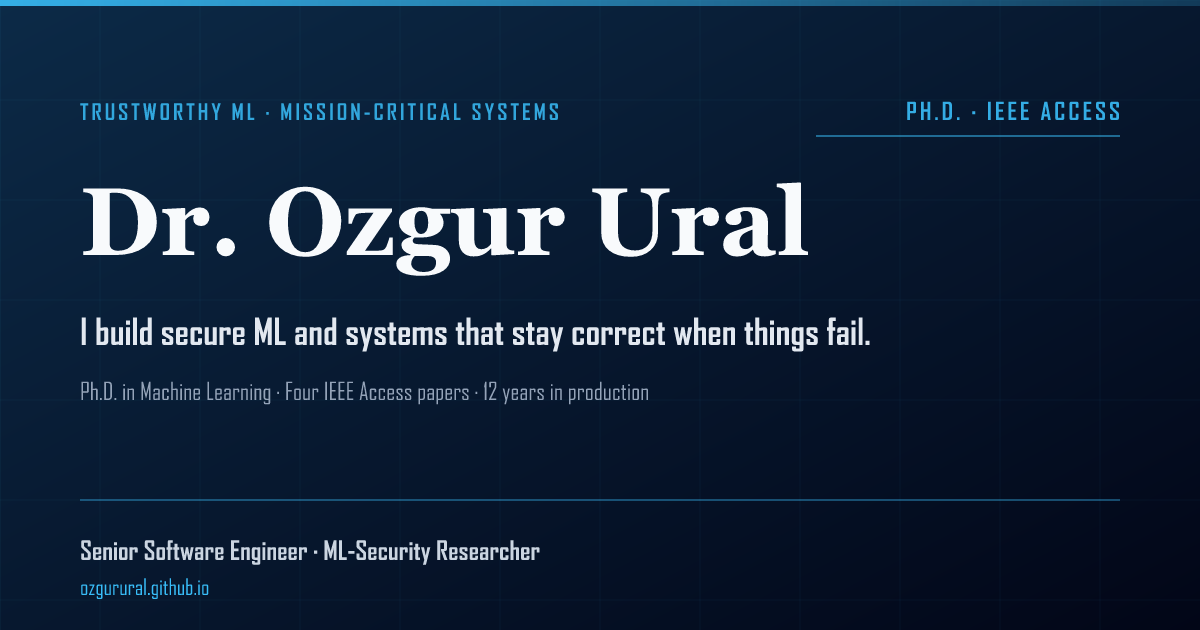
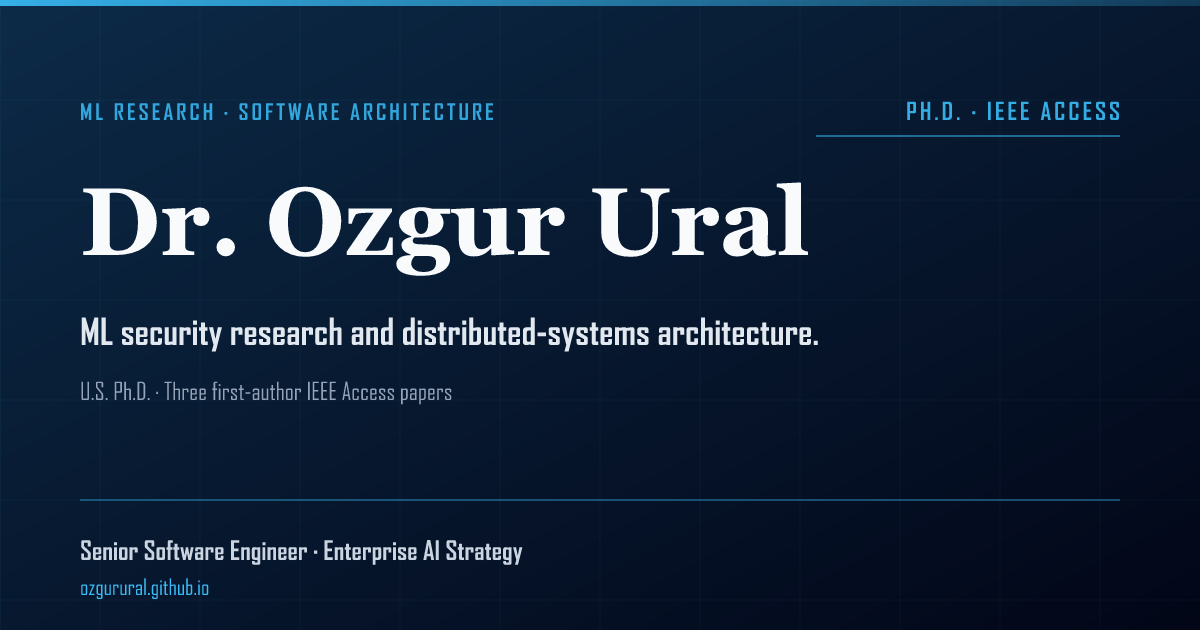
site: balance ML research and software architecture
Lead with published research and architecture evidence, remove duplicate homepage actions and headline metrics, and distinguish the current role from target roles. Align metadata and the sharing image, preserve the CV, and clarify reliability assumptions.

diff --git a/_includes/seo.html b/_includes/seo.html
@@ -27,7 +27,7 @@
 {% endif %}
 
 {% if page.url == "/" %}
-<title>{{ page.seo_title | default: "Dr. Ozgur Ural | Machine Learning Research Scientist, Ph.D." }}{% if paginator %}{% unless paginator.page == 1 %} {{ site.title_separator }} {{ site.data.ui-text[site.locale].page | default: "Page" }} {{ paginator.page }}{% endunless %}{% endif %}</title>
+<title>{{ page.seo_title | default: "Dr. Ozgur Ural | ML Research & Software Architecture" }}{% if paginator %}{% unless paginator.page == 1 %} {{ site.title_separator }} {{ site.data.ui-text[site.locale].page | default: "Page" }} {{ paginator.page }}{% endunless %}{% endif %}</title>
 {% else %}
 <title>{{ seo_title | default: "Dr. Ozgur Ural" }}{% if paginator %}{% unless paginator.page == 1 %} {{ site.title_separator }} {{ site.data.ui-text[site.locale].page | default: "Page" }} {{ paginator.page }}{% endunless %}{% endif %}</title>
 {% endif %}

diff --git a/scripts/build-site-og.js b/scripts/build-site-og.js
@@ -16,11 +16,11 @@ const BG = "#0c2a47";      // deep site blue
 const ACCENT = "#38bdf8";  // brand sky, matches the flagship lab card + particles
 
 const CARD = {
-  eyebrow: "TRUSTWORTHY ML · MISSION-CRITICAL SYSTEMS",
+  eyebrow: "ML RESEARCH · SOFTWARE ARCHITECTURE",
   title: "Dr. Ozgur Ural",
-  sub: "I build secure ML and systems that stay correct when things fail.",
-  tagline: "Ph.D. in Machine Learning · Four IEEE Access papers · 12 years in production",
-  role: "Senior Software Engineer · ML-Security Researcher",
+  sub: "ML security research and distributed-systems architecture.",
+  tagline: "U.S. Ph.D. · Three first-author IEEE Access papers",
+  role: "Senior Software Engineer · Enterprise AI Strategy",
   badge: "PH.D. · IEEE ACCESS",
 };
 

diff --git a/_pages/about.md b/_pages/about.md
@@ -1,8 +1,8 @@
 ---
 permalink: /
-title: "Trustworthy AI for Mission-Critical Systems"
+title: "ML Research & Software Architecture"
 hide_title: true
-excerpt: "Trustworthy AI for mission-critical systems: twelve years shipping UAV, security and flight-simulation software, a U.S. Ph.D., three IEEE Access papers."
+excerpt: "Dr. Ozgur Ural: Senior Software Engineer working on ML security research, software architecture and enterprise AI. U.S. Ph.D. and three first-author IEEE Access papers."
 author_profile: true
 redirect_from:
   - /about/
@@ -16,7 +16,7 @@ redirect_from:
   "name": "Dr. Ozgur Ural",
   "honorificPrefix": "Dr.",
   "jobTitle": {{ site.data.person.job_title | jsonify }},
-  "description": "Machine learning research scientist and senior software engineer working on trustworthy AI for mission-critical systems: verifiable training and model provenance, robustness, and AI inside real-time loops. Twelve years of UAV, security and flight-simulation software; U.S. Ph.D.; three IEEE Access papers.",
+  "description": "Senior Software Engineer at Avion, leading enterprise AI strategy and researching training verification, model ownership and adversarial robustness. Ph.D. in Electrical Engineering and Computer Science, Embry-Riddle Aeronautical University, USA; three first-author IEEE Access papers.",
   "url": "https://ozgurural.github.io",
   "image": "https://ozgurural.github.io/images/ozgururalpp.webp",
   "email": "drozgurural@gmail.com",
@@ -42,55 +42,68 @@ redirect_from:
      record lives on /publications/. -->
 
 <section class="ep-hero">
-  <span class="ep-eyebrow">Trustworthy AI · Real-time &amp; safety-critical systems · Applied ML research</span>
-  <h1 class="ep-hero__title"><span class="accent">Trustworthy AI</span><br>for mission-critical systems.</h1>
+  <span class="ep-eyebrow">ML security · Model provenance · Distributed systems</span>
+  <h1 class="ep-hero__title"><span class="accent">Machine learning research.</span><br>Software architecture.</h1>
   <p class="ep-hero__lede">
-    I'm <strong>Dr. Ozgur Ural</strong>, a machine learning research scientist and senior software engineer at <a href="https://www.aviongroup.aero/">Avion</a>, where I build real-time software for Level D flight simulators and lead the company's AI strategy. My research asks what it takes to trust a model: evidence of how it was trained and who owns it, robustness against attackers, and predictable timing when it runs inside a real-time loop.
-  </p>
-  <p class="ep-hero__status">
-    <span class="ep-status-dot" aria-hidden="true"></span>
-    <span>Leiden, Netherlands. Interested in research scientist roles in ML and AI, and open to research collaboration, advisory and speaking.</span>
+    I'm <strong>Dr. Ozgur Ural</strong>. I research how to verify a model's training and ownership, and design software architectures for enterprise AI. My background combines a U.S. Ph.D., three first-author IEEE Access papers and twelve years of software engineering. At Avion, I lead the enterprise AI strategy and reference architecture.
   </p>
   <div class="ep-hero__cta">
-    <a href="#research-agenda"><i class="fas fa-book-open"></i> Research agenda</a>
-    <a href="/Ozgur_Ural_PhD_Resume.pdf"><i class="fas fa-file-lines"></i> Resume</a>
-    <a href="mailto:drozgurural@gmail.com"><i class="fas fa-envelope"></i> Get in touch</a>
+    <a href="/publications/"><i class="fas fa-book-open" aria-hidden="true"></i> Read my research</a>
+    <a href="/projects/">Architecture &amp; projects</a>
   </div>
 </section>
 
-<ul class="ep-stats ep-stats--four">
-  <li><span class="num">12+</span><span class="label">Years shipping mission-critical software</span></li>
-  <li><span class="num">Level&nbsp;D</span><span class="label">Flight simulators, the highest certification grade</span></li>
-  <li><span class="num">~50&nbsp;GB/s</span><span class="label">Simulator telemetry pipeline, sustained</span></li>
-  <li><span class="num">Ph.D.</span><span class="label">U.S. doctorate&nbsp;· 3 IEEE Access papers</span></li>
+## Selected research &amp; architecture
+
+<ul class="ep-cards ep-cards--two">
+  <li>
+    <div class="meta">2025 · IEEE Access</div>
+    <h3 class="title"><a href="/publication/2025-secureproofoflearning">SecurePoL: Watermarking + Proof-of-Learning</a></h3>
+    <p class="desc">Defends proof-of-learning against spoofing by making verification depend on a feature-based model watermark as well.</p>
+  </li>
+  <li>
+    <div class="meta">2026 · Avion · Architecture</div>
+    <h3 class="title"><a href="/enterprise-ai-architecture.html">Enterprise AI strategy and reference architecture</a></h3>
+    <p class="desc">The adoption roadmap and reference architecture I wrote for Avion, spanning on-premises inference, governed cloud APIs and edge workloads. The design distinguishes prototypes from proposed capabilities.</p>
+  </li>
+  <li>
+    <div class="meta">2024 · IEEE Access</div>
+    <h3 class="title"><a href="/publication/2024-ieee-access-watermarking">Model watermarking for Proof-of-Learning</a></h3>
+    <p class="desc">Studies how feature-based model watermarking can strengthen proof-of-learning against spoofing attacks.</p>
+  </li>
+  <li>
+    <div class="meta">2023 · IEEE Access · Survey</div>
+    <h3 class="title"><a href="/publication/2023-ieee-access-survey">Survey on Blockchain-Enhanced Machine Learning</a></h3>
+    <p class="desc">Reviews the design space where distributed ledgers meet learning systems.</p>
+  </li>
 </ul>
 
 ## Research agenda {#research-agenda}
 
-<p class="ep-pillars__note">Three questions, each from a system that has to work the first time. For each: the problem, what I have built or shown, and where it stands.</p>
+<p class="ep-pillars__note">Training evidence, adversarial robustness and the conditions for using learned systems in practice. Published work and open directions are identified below.</p>
 
 <ol class="ep-agenda">
   <li>
     <span class="ep-agenda__status">Published · IEEE Access 2023–2025 · Ph.D. 2025</span>
     <h3>Proving how a model was trained, and who owns it</h3>
     <p>Models are bought, fine-tuned and shipped by people who did not train them. Proof-of-learning lets a trainer show the training was really done; a watermark lets an owner show a model is theirs. Each can be forged on its own.</p>
-    <p class="ep-agenda__done">My Ph.D. and three first-author IEEE Access papers combine the two, so verification succeeds only when the training record and the watermark agree, and test the result against spoofing and adversarial attacks. <a href="/publications/">Publications</a></p>
+    <p class="ep-agenda__done">My dissertation and SecurePoL study combine the two, so verification succeeds only when the training record and the watermark agree, and evaluate the result against specified spoofing attacks. <a href="/publications/">Publications</a></p>
   </li>
   <li>
-    <span class="ep-agenda__status">Open research direction, not yet published</span>
-    <h3>AI inside real-time, safety-critical loops</h3>
-    <p>A flight simulator answers the pilot within 150 milliseconds, sixty times a second, for hours, and is certified on it. Learned models can make it more realistic, but their timing depends on the input and on whatever shares the processor.</p>
-    <p class="ep-agenda__done">I bring twelve years of hard-real-time and simulator software, from UAV mission control at STM to Level D simulators at Avion, and argue that a model earns a place in the loop only if every frame stays on time. <a href="/lab/level-d-60hz/">The argument, as a film</a></p>
+    <span class="ep-agenda__status">Published · IEEE Access 2024–2025</span>
+    <h3>Testing security claims against an adversary</h3>
+    <p>A verifier can accept a plausible training record that was never honestly produced. A watermark can also be attacked. The useful question is which attacks a defence withstands, under which assumptions and at what cost.</p>
+    <p class="ep-agenda__done">My research studies spoofing attacks on proof-of-learning and the use of model watermarking to strengthen verification. <a href="/publication/2024-ieee-access-watermarking">Watermarking study</a> · <a href="/publication/2025-secureproofoflearning">SecurePoL</a></p>
   </li>
   <li>
-    <span class="ep-agenda__status">In industry · Avion, 2026</span>
-    <h3>Generative AI an engineering company can govern</h3>
-    <p>In an engineering company the useful knowledge sits in its own documents and processes, and an AI system has to respect where that data is allowed to go.</p>
-    <p class="ep-agenda__done">I wrote Avion's AI adoption roadmap and a reference architecture spanning on-premises inference, governed cloud APIs and edge workloads, and built engineering-knowledge retrieval prototypes. <a href="/projects/">Projects</a> separates what is built from what is proposed.</p>
+    <span class="ep-agenda__status">Open research direction of the author, not yet published</span>
+    <h3>From model quality to system-level evidence</h3>
+    <p>Accuracy alone does not establish that a learned component is useful inside a larger system. Timing, the freshness of its inputs and the behaviour when it is unavailable also need to be evaluated.</p>
+    <p class="ep-agenda__done">I am exploring these questions through an executable architecture experiment with asynchronous inference, expiry checks and fallback. <a href="/lab/determinism/">AI Meets the Deadline</a> states the model's assumptions and separates synthetic traces from measured results.</p>
   </li>
 </ol>
 
-## What I bring to an industry team
+## Technical leadership &amp; research practice
 
 <ul class="ep-pillars">
   <li class="ep-pillar">
@@ -99,9 +112,9 @@ redirect_from:
     <p>I lead Avion's enterprise AI strategy: the adoption roadmap and the reference architecture behind it. Before that I built mission-critical UAV software at STM and led the engineering team that shipped Havelsan's data-leakage-prevention product.</p>
   </li>
   <li class="ep-pillar">
-    <span class="ep-pillar__tag">Real-time &amp; Fault-Tolerant Systems</span>
-    <h3>Correct on time, and when parts fail</h3>
-    <p>Real-time simulator software and the services around it (C, C++, Scala, TypeScript, gRPC), including a telemetry pipeline that sustains about 50 GB/s through batching and bounded-queue backpressure.</p>
+    <span class="ep-pillar__tag">Research Engineering</span>
+    <h3>From a question to an experiment</h3>
+    <p>Hands-on research in proof-of-learning and model watermarking, backed by twelve years building software in security, distributed systems and simulation. I use that engineering experience to turn research questions into implementations that can be inspected and tested.</p>
   </li>
   <li class="ep-pillar">
     <span class="ep-pillar__tag">Security, then ML Security</span>
@@ -115,31 +128,6 @@ redirect_from:
   </li>
 </ul>
 
-## Selected Work
-
-<ul class="ep-cards ep-cards--two">
-  <li>
-    <div class="meta">2026 · Avion · Industry</div>
-    <h3 class="title"><a href="/enterprise-ai-architecture.html">Enterprise AI strategy and reference architecture</a></h3>
-    <p class="desc">The adoption roadmap and architecture I wrote for Avion: on-premises inference, governed cloud APIs and edge workloads.</p>
-  </li>
-  <li>
-    <div class="meta">2025 · IEEE Access</div>
-    <h3 class="title"><a href="https://ieeexplore.ieee.org/document/11293969">SecurePoL: Watermarking + Proof-of-Learning</a></h3>
-    <p class="desc">Defends proof-of-learning against spoofing by making verification depend on a feature-based model watermark as well.</p>
-  </li>
-  <li>
-    <div class="meta">2026 · Research film</div>
-    <h3 class="title"><a href="/lab/level-d-60hz/">Inside a Level D flight simulator</a></h3>
-    <p class="desc">How a simulator earns a pilot's trust, and what AI would have to keep to run inside one. Every rule is cited from the regulation text.</p>
-  </li>
-  <li>
-    <div class="meta">2023 · IEEE Access · Survey</div>
-    <h3 class="title"><a href="https://ieeexplore.ieee.org/abstract/document/10366252">Survey on Blockchain-Enhanced Machine Learning</a></h3>
-    <p class="desc">My most-cited paper: the design space where distributed ledgers meet learning systems.</p>
-  </li>
-</ul>
-
 ## Experience
 
 <ol class="ep-timeline">
@@ -149,7 +137,7 @@ redirect_from:
   </li>
   <li>
     <span class="when">2021–2025</span>
-    <span class="what"><strong>Ph.D. in Electrical Engineering &amp; Computer Science, Embry-Riddle Aeronautical University</strong> (Graduate Research Assistant). Dissertation: <em>Enhancing Proof-of-Learning Security Against Spoofing Attacks Using Model Watermarking</em>, guided by Dr. Kenji Yoshigoe (Committee Chair) and IEEE Fellow <a href="https://informationsystems.umbc.edu/home/faculty-and-staff/new-faculty-spotlights/houbing-herbert-song/">Dr. Houbing Song</a>. Three IEEE Access papers, and SecurePoL (December 2025) with Dr. Yoshigoe after graduation. <a href="https://commons.erau.edu/edt/905/">Dissertation</a> · <a href="https://www.parchment.com/u/award/f48bdb435249f1ac871ed66e818ef1ae">Verify diploma</a>.</span>
+    <span class="what"><strong>Ph.D. in Electrical Engineering &amp; Computer Science, Embry-Riddle Aeronautical University</strong> (Graduate Research Assistant). Dissertation: <em>Enhancing Proof-of-Learning Security Against Spoofing Attacks Using Model Watermarking</em>, guided by Dr. Kenji Yoshigoe (Committee Chair) and IEEE Fellow <a href="https://informationsystems.umbc.edu/home/faculty-and-staff/new-faculty-spotlights/houbing-herbert-song/">Dr. Houbing Song</a>. Three first-author IEEE Access papers, including SecurePoL (December 2025) with Dr. Yoshigoe after graduation. <a href="https://commons.erau.edu/edt/905/">Dissertation</a> · <a href="https://www.parchment.com/u/award/f48bdb435249f1ac871ed66e818ef1ae">Verify diploma</a>.</span>
   </li>
   <li>
     <span class="when">2020–2021</span>
@@ -174,7 +162,3 @@ redirect_from:
 - **Program Committee Member**, *2nd Workshop on NLP Applied to Information and Cyber Security (NLPAICS 2026)*, University of Alicante. [Conference](https://nlpaics2026.gplsi.es/)
 - **Journal Referee**, *IEEE Access*, and other peer-reviewed journals in ML security, privacy and distributed systems
 - **Reviewer**, IEEE and ACM conferences in security, machine learning and distributed systems
-
-## Get in touch
-
-For research scientist roles in ML and AI, research collaboration, [technical advisory or speaking](/services/), write to me by [email](mailto:drozgurural@gmail.com), or browse the [publications](/publications/), [projects](/projects/), [field notes](/blog/) and [essays](/essays/).

diff --git a/CLAUDE.md b/CLAUDE.md
@@ -4,7 +4,7 @@ This file provides guidance to Claude Code (claude.ai/code) when working with co
 
 ## Overview
 
-Personal academic portfolio site for Dr. Ozgur Ural, built on a custom Jekyll template and hosted on GitHub Pages at `ozgurural.github.io`. The site positions Ozgur for industry Principal Research Scientist roles: copy should lead with the problems he works on, what he has built and at what scale, and leadership, with publications as the evidence rather than the headline. The home page is ordered that way (hero, figures, a research agenda where each question carries its problem, its evidence and its status, what he brings to an industry team, selected work mixing industry and papers, experience as roles only, then service); the publication-by-publication record lives on /publications/, not in the home timeline. The rest of the site follows the same test (does it help an industry research lead judge the work?): /projects/ is research, industry and a short list of proposals, each card saying which it is; nine generic startup-advice and filler posts were unpublished with `published: false` (kept in `_posts/`, with the reason in their front matter); personal posts live at /life/ ("Personal"), linked from Field Notes but not in the bar. A team size from one year five years ago is not a headline figure: the owner read it as boasting.
+Personal academic portfolio site for Dr. Ozgur Ural, built on a custom Jekyll template and hosted on GitHub Pages at `ozgurural.github.io`. The site targets Principal Research Scientist and Principal Software Architect roles. Current employment is Senior Software Engineer at Avion. Lead with ML research, published evidence, software architecture and technical leadership. The home page is ordered as hero, selected research and architecture, research agenda, technical leadership, experience and service. It has no headline metric cards, duplicate Resume button or closing contact pitch. The full publication record lives on /publications/. On /projects/, distinguish research, delivered industry work and proposals. Nine generic filler posts remain unpublished with `published: false`; personal posts live at /life/ ("Personal"), linked from Field Notes rather than the main bar.
 
 ## Development Commands
 
@@ -221,7 +221,7 @@ grep -rn '—' _pages _posts _publications | grep -v _site   # must be empty
 
 **Avoid AI-tell phrasing.** No "delve", "leverage", "seamless", "cutting-edge", "sits at the intersection of", "raise the bar", or self-praise like "Recognized for my expertise" and "deep domain expertise". Let facts carry the authority: name the papers, the venues, the measurements. Genuine technical terms that resemble tells are fine (loss landscape, test harness, adversarial robustness, state-of-the-art when it refers to prior work).
 
-**Positioning.** Headline title is "Machine Learning Research Scientist & Senior Software Engineer, Ph.D."; never "AI Engineer". The degree is named by its official title, "Ph.D. in Electrical Engineering and Computer Science" (Embry-Riddle, USA, 2025), and the fact that it is a U.S. doctorate is worth foregrounding. Keep `cv/resume.tex`, `_pages/about.md` and `_config.yml` consistent whenever any of this changes.
+**Positioning.** The personal site targets Principal Research Scientist and Principal Software Architect opportunities: lead with ML security, model provenance, published research, architecture and technical leadership. Principal roles guide the editorial strategy internally, but must not be advertised as target titles or an Open to statement on the public homepage. Demonstrate the scope through papers, architecture decisions and technical leadership. Engineering and employer work support that research profile; Level D and telemetry throughput are not homepage headline figures. Keep one Resume action in the masthead and email in the author profile rather than repeating them in the hero and closing section. Current employment title is "Senior Software Engineer"; distinguish it from research interests and target roles. The degree is named by its official title, "Ph.D. in Electrical Engineering and Computer Science" (Embry-Riddle, USA, 2025). The owner explicitly asked to preserve the CV and its telemetry figure; the objection concerns homepage highlights.
 
 **Biographical and research claims need evidence.** Editing for authority or SEO must never invent clients, deployments, collaborations, licensing, job responsibilities, benchmark results, clinical studies, regulatory obligations, or publication venues. A plausible connection between two projects is not evidence that they were integrated. Retain established facts; tie new measurements and mechanisms to the source passage that actually reports them. A DOI or Scholar search link does not substantiate surrounding prose by itself. If evidence is unavailable, omit the claim or clearly label a proposed research direction. Do not turn a technical report into a conference paper.
 

diff --git a/_pages/lab-level-d.md b/_pages/lab-level-d.md
@@ -56,8 +56,8 @@ header:
     <summary>⏱ The clock</summary>
     <p><strong>150 ms is a gate, not a target.</strong> Transport delay is the total system processing time from a pilot primary-flight-control input until the motion, visual or instrument systems respond. FAA Part 60 and EASA CS-FSTD(A) cap it at 150 ms for Level C/D aeroplane devices. EASA's CS-FSTD Issue 1, published in July 2026 for the initial qualification of new devices, tightens that to 100 ms for motion, instruments and visual at its highest fidelity level (Subpart D, test 6.a.1). Exceed the applicable ceiling in the qualification test and the device does not meet that requirement.</p>
     <p><strong>A deadline is never met on average.</strong> At 60 Hz each frame gets 16.67 ms. A mean of 8.6 ms looks like a system with half its budget spare, but the mean is the wrong statistic: what matters is the tail mass past the deadline. A four-hour session is 864,000 frames, so <em>E[K] = N·p</em>: one bad frame in a hundred thousand still costs ~9 overruns a session, and a 99.9% success rate costs 864 of them.</p>
-    <p><strong>And that estimate is the optimistic one.</strong> <em>E[K] = N·p</em> assumes frames fail independently. They don't: a garbage-collection pause, a page fault or a network stall takes out a run of consecutive frames, so real sessions cluster their failures into visible stutters rather than spreading them thinly.</p>
-    <p><strong>Distributed systems compose badly, in two directions at once.</strong> A full-flight simulator is a rack: flight model, avionics, three visual channels, sound, motion, instructor station. The frame closes when the <em>last</em> host publishes, so latency composes as a maximum: one straggler at 19 ms makes the frame late for everyone. Reliability composes as a product: nine hosts at three nines each give 0.999⁹ ≈ 99.1% clean frames, about 7,800 bad frames per session. This is why the budget must be allocated and enforced per host: a system-wide average is not something anyone can engineer against.</p>
+    <p><strong>The count does not describe the clustering.</strong> <em>E[K] = N·p</em> holds whenever each frame has the same marginal miss probability <em>p</em>; independence is not required. Correlation changes how failures cluster and the distribution of the count. A garbage-collection pause, a page fault or a network stall can take out consecutive frames, producing a visible stutter.</p>
+    <p><strong>Distributed systems compose badly, in two directions at once.</strong> A full-flight simulator is a rack: flight model, avionics, three visual channels, sound, motion, instructor station. The frame closes when the <em>last</em> host publishes, so latency composes as a maximum: one straggler at 19 ms makes the frame late for everyone. If host successes are independent, reliability composes as a product: nine hosts at three nines each give 0.999⁹ ≈ 99.1% clean frames, about 7,800 bad frames per session under that assumption. Shared-resource stalls can violate independence. This is why the budget must be allocated and enforced per host: a system-wide average is not something anyone can engineer against.</p>
     <p><strong>Ship the instrument with the system.</strong> Sampled step time can miss a spike that happens between two polls; an overrun counter is incremented by the runtime at the moment the deadline breaks and cannot be missed. Monotonic counters are the trustworthy primitive for deadline compliance; sampled gauges are for trend. Determinism is not optimised in at the end: it is a budget, allocated per host, enforced every frame, and proven by telemetry that is part of the deliverable.</p>
   </details>
 
